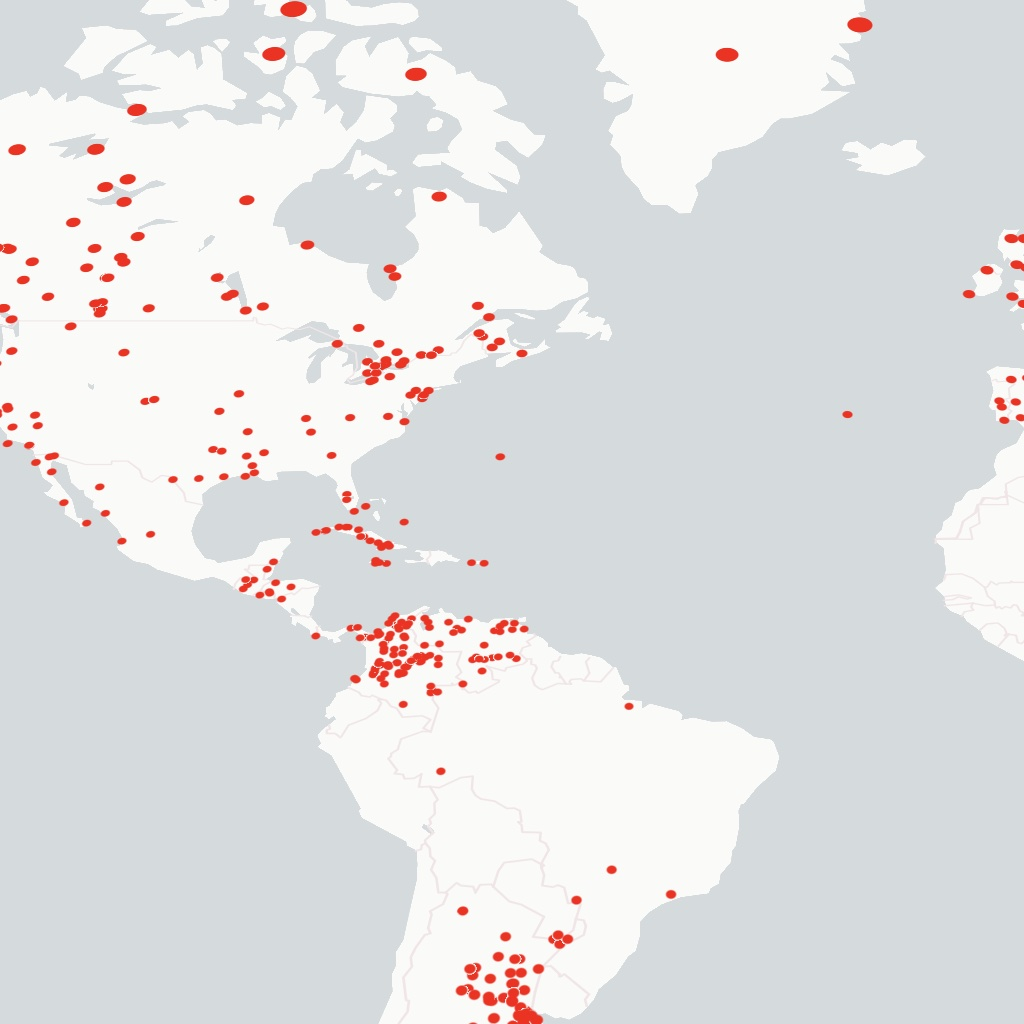
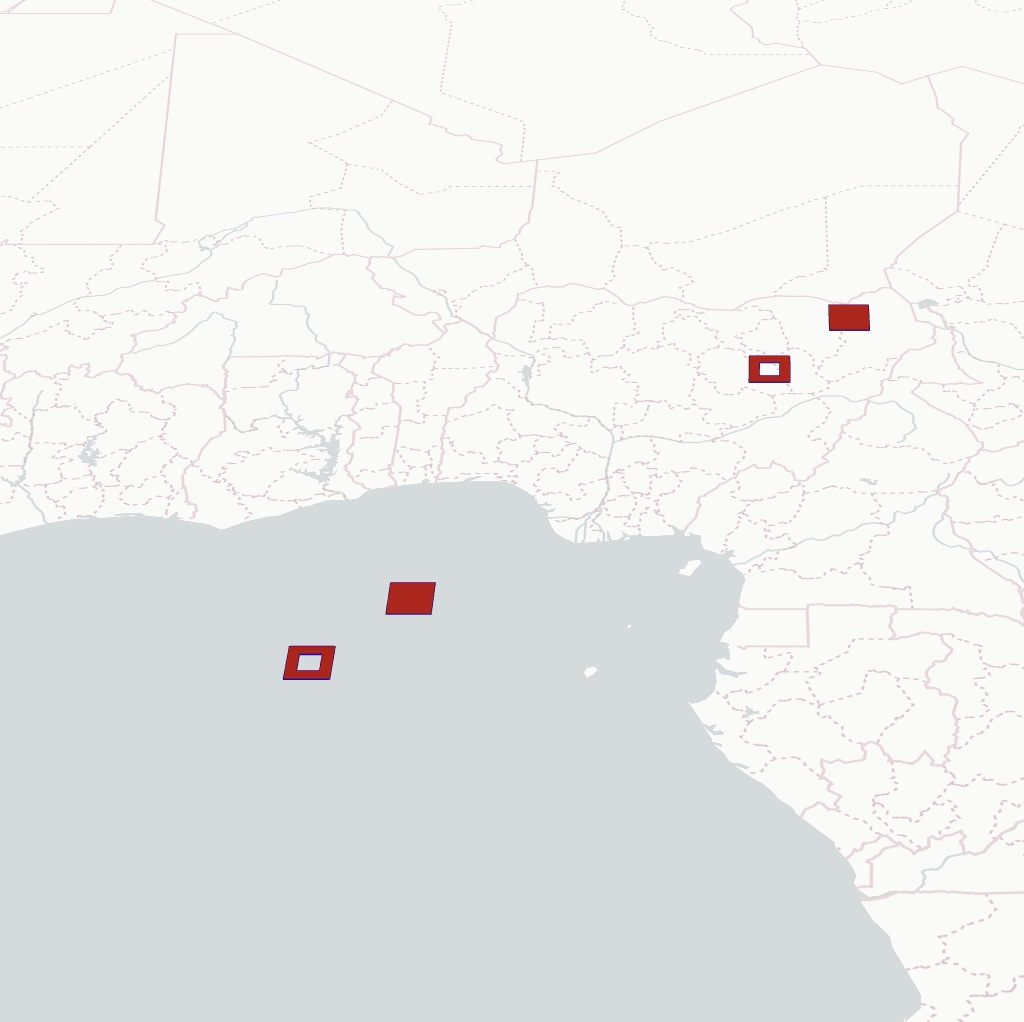
wip

diff --git a/examples/website/geospatial/examples.ts b/examples/website/geospatial/examples.ts
@@ -25,6 +25,7 @@ export type Example = {
   format: string;
   data: string;
   viewState?: Record<string, number>;
+  layerProps?: Record<string, any>;
 };
 
 export const LOADERS_URL = 'https://raw.githubusercontent.com/visgl/loaders.gl/master';
@@ -38,7 +39,7 @@ export const EXAMPLES: Record<string, Record<string, Example>> = {
     multipolygon_hole: {
       format: 'geoarrow',
       data: `${GEOARROW_TEST_DATA}/multipolygon_hole.arrow`,
-      viewState: {...VIEW_STATE, longitude: 0, latitude: 0, zoom: 4}
+      viewState: {...VIEW_STATE, longitude: 10.388, latitude:   1.447, zoom: 4}
     }
   },
   GeoParquet: {
@@ -83,44 +84,46 @@ export const EXAMPLES: Record<string, Record<string, Example>> = {
     Countries: {
       format: 'flatgeobuf',
       data: `${LOADERS_URL}/modules/flatgeobuf/test/data/countries.fgb`,
-      viewState: {...VIEW_STATE, longitude: -4.65, latitude: -29.76, zoom: 1.76}
+      viewState: {...VIEW_STATE, longitude: -4.65, latitude: -29.76, zoom: 1.76},
+      layerProps: {getFillColor: (_, {index}) => [index % 255, 0, 0]}
     }
   },
   Shapefile: {
-    'SF Topography': {
-      format: 'shapefile',
-      data: `${DECKGL_DATA_URL}/test-data/shapefile/geo_export_14556060-0002-4a9e-8ef0-03da3e246166.shp`,
-      viewState: {...VIEW_STATE, latitude: 37.75, longitude: -122.4, zoom: 11}
-    },
     'Countries and Graticules': {
       format: 'shapefile',
       data: `${LOADERS_URL}/modules/shapefile/test/data/graticules-and-countries/99bfd9e7-bb42-4728-87b5-07f8c8ac631c2020328-1-1vef4ev.lu5nk.shp`,
       viewState: {...VIEW_STATE, longitude: -4.65, latitude: -29.76, zoom: 1.76}
+    },
+    'SF Topography': {
+      format: 'shapefile',
+      data: `${DECKGL_DATA_URL}/test-data/shapefile/geo_export_14556060-0002-4a9e-8ef0-03da3e246166.shp`,
+      viewState: {...VIEW_STATE, latitude: 37.75, longitude: -122.4, zoom: 11}
     }
   },
 
   KML: {
-    'KML Sample': {
+    'Congressional Districts': {
       format: 'kml',
-      data: `${LOADERS_URL}/modules/kml/test/data/kml/KML_Samples.kml`,
-      viewState: {...VIEW_STATE, latitude: 37.65, longitude: -121.7, zoom: 11}
-    },
+      data: `${DECKGL_DATA_URL}/formats/kml/congressional-districts/cb_2022_us_cd118_20m.kml`,
+      viewState: {...VIEW_STATE, latitude: 14.5, longitude: -78.13, zoom: 2.6},
+      layerProps: {getFillColor: (_, {index}) => [index % 255, 0, 0]}
+    }
   },
 
   TCX: {
     'TXC Sample': {
-      format: 'tcx',                            
+      format: 'tcx',
       data: `${LOADERS_URL}/modules/kml/test/data/tcx/tcx_sample.tcx`,
       viewState: {...VIEW_STATE, latitude: 37.89544935, longitude: -122.4883889, zoom: 16}
-    },
+    }
   },
 
   GPX: {
-    'Trek': {
+    Trek: {
       format: 'gpx',
       data: `${LOADERS_URL}/modules/kml/test/data/gpx/trek.gpx`,
-      viewState: {...VIEW_STATE, latitude: 44.907783722, longitude: 6.05487864642, zoom: 13}
-    },
+      viewState: {...VIEW_STATE, latitude: 44.907783722, longitude: 6.08, zoom: 13}
+    }
   },
 
   GeoArrowTest: {
@@ -138,7 +141,17 @@ export const EXAMPLES: Record<string, Record<string, Example>> = {
     point: {format: 'geoarrow', data: `${GEOARROW_TEST_DATA}/point.arrow`},
     polygon: {format: 'geoarrow', data: `${GEOARROW_TEST_DATA}/polygon.arrow`}
   },
-  GeoParquetTest: getGeoParquetTestExamples()
+
+  GeoParquetTest: getGeoParquetTestExamples(),
+
+  KMLTests: {
+    // TODO - size of features is excessive.
+    'KML Sample': {
+      format: 'kml',
+      data: `${LOADERS_URL}/modules/kml/test/data/kml/KML_Samples.kml`,
+      viewState: {...VIEW_STATE, latitude: 37.65, longitude: -121.7, zoom: 11}
+    }
+  }
 };
 
 // Add Geoparquet datasets

diff --git a/examples/website/geospatial/app.tsx b/examples/website/geospatial/app.tsx
@@ -225,8 +225,9 @@ async function onExampleChange(args: {
   }
 }
 
-function renderLayer({selectedExample, selectedLoader, loadedTable}) {
+function renderLayer({selectedExample, selectedLoader, examples, loadedTable}) {
   const geojson = loadedTable as GeoJSON;
+  const layerProps = examples[selectedLoader]?.[selectedExample]?.layerProps || {};
   return [
     new GeoJsonLayer({
       id: `geojson-${selectedExample}(${selectedLoader})`,
@@ -250,8 +251,9 @@ function renderLayer({selectedExample, selectedLoader, loadedTable}) {
       // point fills
       getFillColor: [255, 0, 0],
       getPointRadius: 100,
-      pointRadiusScale: 500
+      pointRadiusScale: 500,
       // pointRadiusUnits: 'pixels',
+      ...layerProps
     })
   ];
 }
